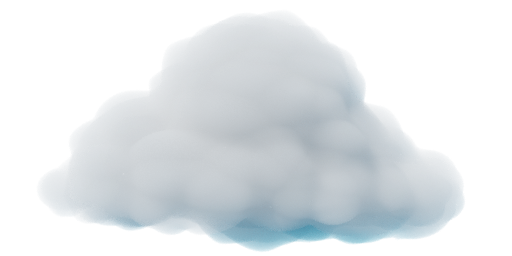
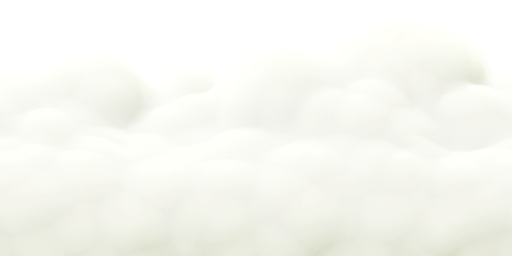
Make repeating clouds

diff --git a/src/flapGame/flapGame/Render.cpp b/src/flapGame/flapGame/Render.cpp
@@ -310,8 +310,7 @@ void renderGamePanel(const DrawContext* dc) {
         Float3 skyColor = fromSRGB(Float3{113.f / 255, 200.f / 255, 206.f / 255});
         {
             ShrubShader::Props shrubProps;
-            shrubProps.diffuse[0] =
-                mix(fromSRGB(Float3{0.2f, 0.7f, 0.f} * 0.85f), skyColor, 0.25f);
+            shrubProps.diffuse[0] = mix(fromSRGB(Float3{0.2f, 0.7f, 0.f} * 0.85f), skyColor, 0.25f);
             shrubProps.diffuse[1] = mix(fromSRGB(Float3{0.3f, 0.85f, 0.3f}), skyColor, 0.15f);
             shrubProps.specular = {mix(Float3{1, 1, 1}, skyColor, 0.25f), 0.15f};
             shrubProps.specPower = 1.f;
@@ -333,7 +332,7 @@ void renderGamePanel(const DrawContext* dc) {
 
         // Draw cities
         Float4x4 skyBoxW2C = worldToCamera;
-        skyBoxW2C[3] = {0, 0, 0, 1};
+        skyBoxW2C[3].asFloat2() = {0, 0};
         {
             MaterialShader::Props matProps;
             matProps.specular = 0.0025f;
@@ -355,11 +354,12 @@ void renderGamePanel(const DrawContext* dc) {
         a->flatShader->drawQuad(Float4x4::makeTranslation({0, 0, 0.999f}), skyColor);
 
         // Draw clouds
-        for (const DrawGroup::Instance& inst : a->cloudGroup.instances) {
-            for (const DrawMesh* dm : a->cloud) {
-                a->texturedShader->draw(cameraToViewport * skyBoxW2C * inst.itemToGroup,
-                                        a->cloudTexture.id, {1, 1, 1, 1}, dm, true);
-            }
+        float cloudAngle =
+            gs->cloudAngleOffset + camToWorld.pos.x * GameState::CloudRadiansPerCameraX;
+        for (const DrawMesh* dm : a->cloud) {
+            a->texturedShader->draw(cameraToViewport * skyBoxW2C *
+                                        Float4x4::makeRotation({0, 0, 1}, cloudAngle),
+                                    a->cloudTexture.id, {1, 1, 1, 1}, dm, true);
         }
 
         // Draw flash

diff --git a/src/flapGame/flapGame/GameState.h b/src/flapGame/flapGame/GameState.h
@@ -134,6 +134,7 @@ struct GameState {
     static constexpr float FollowCamRelBirdX = 4.5f;
     static constexpr float ShrubRepeat = 26.625f;
     static constexpr float BuildingRepeat = 44.f;
+    static constexpr float CloudRadiansPerCameraX = 0.0005f;
 
     OuterContext* outerCtx = nullptr;
     Random random;
@@ -221,6 +222,7 @@ struct GameState {
     Playfield playfield;
     float shrubX = -ShrubRepeat;
     float buildingX = 0;
+    float cloudAngleOffset = 0.05f;
 
     void updateCamera(bool cut = false);
     void startPlaying();

diff --git a/src/flapGame/flapGame/GameState.cpp b/src/flapGame/flapGame/GameState.cpp
@@ -312,6 +312,8 @@ void adjustX(GameState* gs, float amount) {
     }
     gs->shrubX = wrap(gs->shrubX + amount, GameState::ShrubRepeat) - GameState::ShrubRepeat;
     gs->buildingX = wrap(gs->buildingX + amount, GameState::BuildingRepeat);
+    gs->cloudAngleOffset =
+        wrap(gs->cloudAngleOffset - amount * GameState::CloudRadiansPerCameraX, 2 * Pi);
 }
 
 //---------------------------------------

diff --git a/src/flapGame/flapGame/Assets.cpp b/src/flapGame/flapGame/Assets.cpp
@@ -434,7 +434,6 @@ void Assets::load(StringView assetsPath) {
         PLY_ASSERT(FileSystem::native()->lastResult() == FSResult::OK);
         image::OwnImage im = loadPNG(pngData);
         SamplerParams params;
-        params.repeatX = false;
         params.repeatY = false;
         assets->cloudTexture.init(im, 3, params);
     }
